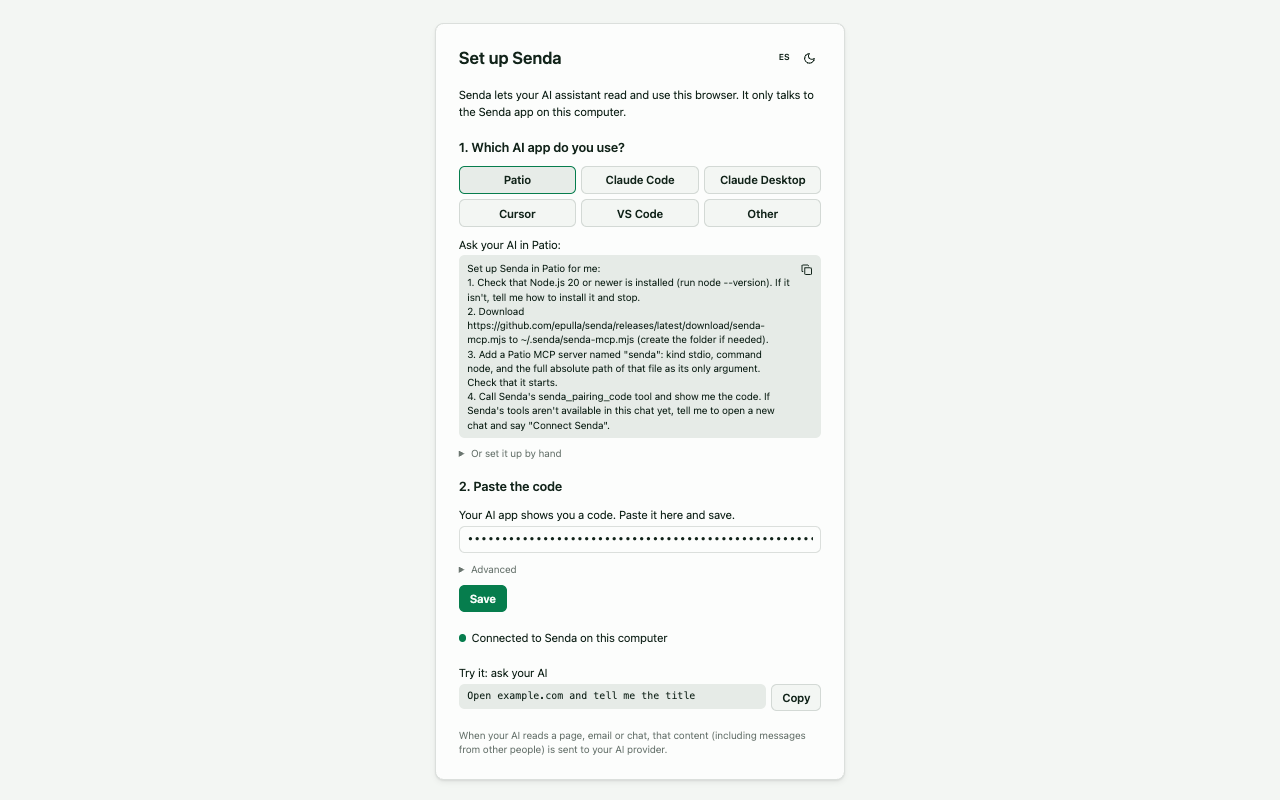
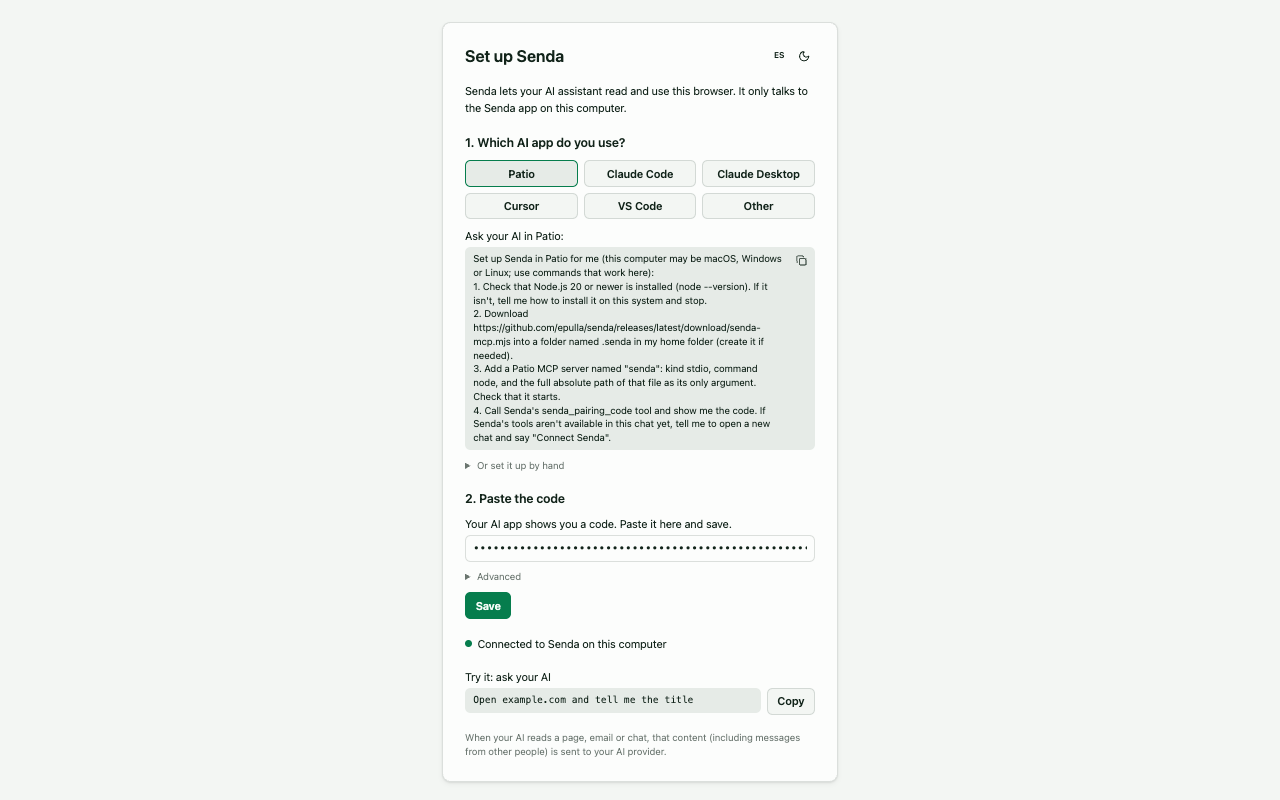
fix(extension): cross-platform Patio prompt and per-OS path examples (PROJ-277)

Changed region(s): [[0.3438, 0.0625, 0.6562, 0.875], [0.3438, 0.8438, 0.6562, 0.9688], [0.625, 0.0625, 0.6562, 0.0938]]

diff --git a/packages/extension/src/core/text/es.ts b/packages/extension/src/core/text/es.ts
@@ -47,9 +47,9 @@ export const es: Text = {
     downloadServer: 'Descarga senda-mcp.mjs',
     keepFile: ' y guárdalo en una carpeta que vayas a conservar.',
     patioAsk: 'Pídele a tu IA en Patio:',
-    patioPrompt: `Configura Senda en Patio por mí:
-1. Revisa que Node.js 20 o más reciente esté instalado (ejecuta node --version). Si no lo está, dime cómo instalarlo y detente.
-2. Descarga https://github.com/epulla/senda/releases/latest/download/senda-mcp.mjs en ~/.senda/senda-mcp.mjs (crea la carpeta si hace falta).
+    patioPrompt: `Configura Senda en Patio por mí (esta computadora puede ser macOS, Windows o Linux; usa comandos que funcionen aquí):
+1. Revisa que Node.js 20 o más reciente esté instalado (node --version). Si no lo está, dime cómo instalarlo en este sistema y detente.
+2. Descarga https://github.com/epulla/senda/releases/latest/download/senda-mcp.mjs en una carpeta llamada .senda dentro de mi carpeta personal (créala si hace falta).
 3. Agrega un servidor MCP de Patio llamado "senda": tipo stdio, comando node, y la ruta absoluta completa de ese archivo como su único argumento. Revisa que arranque.
 4. Llama a la herramienta senda_pairing_code de Senda y muéstrame el código. Si las herramientas de Senda aún no están disponibles en este chat, dime que abra un chat nuevo y diga "Conecta Senda".`,
     byHand: 'O configúralo a mano',
@@ -60,7 +60,8 @@ export const es: Text = {
     cursor: 'En los ajustes de Cursor, agrega un nuevo servidor MCP con:',
     vscode: 'En VS Code, abre la paleta de comandos, ejecuta "MCP: Add Server", elige Command (stdio), pega este comando y llama al servidor senda:',
     other: 'Agrega este servidor en los ajustes de tu app de IA:',
-    replacePath: 'Cambia /path/to/senda-mcp.mjs por la ubicación donde guardaste el archivo.',
+    replacePath: 'Cambia /path/to/senda-mcp.mjs por la ruta completa del archivo, por ejemplo:',
+    jsonWindows: 'En Windows, escribe cada \\ dos veces en esta configuración, por ejemplo C:\\\\Users\\\\you\\\\.senda\\\\senda-mcp.mjs.',
     sayConnect: 'En tu app de IA, escribe:',
     connectPrompt: 'Conecta Senda',
     pasteCode: '2. Pega el código',

diff --git a/packages/extension/src/core/text/en.ts b/packages/extension/src/core/text/en.ts
@@ -44,9 +44,9 @@ export const en = {
     downloadServer: 'Download senda-mcp.mjs',
     keepFile: ' and save it in a folder you will keep.',
     patioAsk: 'Ask your AI in Patio:',
-    patioPrompt: `Set up Senda in Patio for me:
-1. Check that Node.js 20 or newer is installed (run node --version). If it isn't, tell me how to install it and stop.
-2. Download https://github.com/epulla/senda/releases/latest/download/senda-mcp.mjs to ~/.senda/senda-mcp.mjs (create the folder if needed).
+    patioPrompt: `Set up Senda in Patio for me (this computer may be macOS, Windows or Linux; use commands that work here):
+1. Check that Node.js 20 or newer is installed (node --version). If it isn't, tell me how to install it on this system and stop.
+2. Download https://github.com/epulla/senda/releases/latest/download/senda-mcp.mjs into a folder named .senda in my home folder (create it if needed).
 3. Add a Patio MCP server named "senda": kind stdio, command node, and the full absolute path of that file as its only argument. Check that it starts.
 4. Call Senda's senda_pairing_code tool and show me the code. If Senda's tools aren't available in this chat yet, tell me to open a new chat and say "Connect Senda".`,
     byHand: 'Or set it up by hand',
@@ -57,7 +57,8 @@ export const en = {
     cursor: 'In Cursor settings, add a new MCP server with:',
     vscode: 'In VS Code, open the Command Palette, run "MCP: Add Server", choose Command (stdio), paste this command and name the server senda:',
     other: 'Add this server to your AI app settings:',
-    replacePath: 'Replace /path/to/senda-mcp.mjs with where you saved the file.',
+    replacePath: 'Replace /path/to/senda-mcp.mjs with the full path of the file, for example:',
+    jsonWindows: 'On Windows, write each \\ twice in this config, for example C:\\\\Users\\\\you\\\\.senda\\\\senda-mcp.mjs.',
     sayConnect: 'In your AI app, say:',
     connectPrompt: 'Connect Senda',
     pasteCode: '2. Paste the code',

diff --git a/packages/extension/entrypoints/onboarding/App.tsx b/packages/extension/entrypoints/onboarding/App.tsx
@@ -8,6 +8,11 @@ import { useItem } from '@/src/ui/useItem';
 
 const RELEASE = 'https://github.com/epulla/senda/releases/latest/download';
 const SERVER_PATH = '/path/to/senda-mcp.mjs';
+const PATH_EXAMPLES = [
+  ['macOS', '/Users/you/.senda/senda-mcp.mjs'],
+  ['Linux', '/home/you/.senda/senda-mcp.mjs'],
+  ['Windows', 'C:\\Users\\you\\.senda\\senda-mcp.mjs'],
+];
 const APPS = ['patio', 'claudeCode', 'claude', 'cursor', 'vscode', 'other'] as const;
 type App = (typeof APPS)[number];
 
@@ -129,7 +134,17 @@ export default function App() {
                 }
               />
             )}
-            <p className="mt-1 text-sm text-muted">{t.replacePath}</p>
+            <div className="mt-1 text-sm text-muted">
+              {t.replacePath}
+              <ul className="mt-1 list-disc pl-5">
+                {PATH_EXAMPLES.map(([os, path]) => (
+                  <li key={os}>
+                    {os}: <code>{path}</code>
+                  </li>
+                ))}
+              </ul>
+              {(app === 'cursor' || app === 'other') && <p className="mt-1">{t.jsonWindows}</p>}
+            </div>
           </li>
         </>
       )}

diff --git a/packages/extension/e2e/setup.spec.ts b/packages/extension/e2e/setup.spec.ts
@@ -21,11 +21,12 @@ test('setup page guides by AI app and pairs with the code the AI shows', async (
   }
 
   await page.locator('label', { hasText: 'Patio' }).click();
-  await expect(page.getByText('Set up Senda in Patio for me:')).toBeVisible();
+  await expect(page.getByText('Set up Senda in Patio for me (this computer may be macOS, Windows or Linux')).toBeVisible();
   const byHand = page.locator('details', { hasText: 'Or set it up by hand' });
   await expect(byHand.getByText('Command', { exact: true })).toBeHidden();
   await byHand.locator('summary').click();
   await expect(byHand.getByText('Command', { exact: true })).toBeVisible();
+  await expect(byHand.getByText('C:\\Users\\you\\.senda\\senda-mcp.mjs')).toBeVisible();
 
   await page.locator('label', { hasText: 'Claude Desktop' }).click();
   await expect(page.getByRole('link', { name: 'Download Senda for Claude' })).toHaveAttribute('href', /\/releases\/latest\/download\/senda\.mcpb$/);

diff --git a/README.md b/README.md
@@ -53,7 +53,7 @@ Needs a Chromium browser (Chrome, Brave or Edge).
 
 2. **Add Senda to your AI app.** Pick your AI app on the setup page to see its steps. In short:
 
-   **Patio:** the setup page has a prompt to paste into Patio; your AI there installs and adds Senda for you. By hand: needs [Node.js](https://nodejs.org) 20+ and [`senda-mcp.mjs`](https://github.com/epulla/senda/releases/latest/download/senda-mcp.mjs), saved somewhere you will keep (for example `~/.senda/senda-mcp.mjs`). Open Settings › MCP servers › Add server, choose Local command, set Command to `node` and Arguments to the absolute path of `senda-mcp.mjs`.
+   **Patio:** the setup page has a prompt to paste into Patio; your AI there installs and adds Senda for you. By hand: needs [Node.js](https://nodejs.org) 20+ and [`senda-mcp.mjs`](https://github.com/epulla/senda/releases/latest/download/senda-mcp.mjs), saved somewhere you will keep, for example a `.senda` folder in your home folder: `/Users/you/.senda/senda-mcp.mjs` (macOS), `/home/you/.senda/senda-mcp.mjs` (Linux) or `C:\Users\you\.senda\senda-mcp.mjs` (Windows). Open Settings › MCP servers › Add server, choose Local command, set Command to `node` and Arguments to the absolute path of `senda-mcp.mjs`.
 
    **Claude Code:** needs Node.js 20+ and `senda-mcp.mjs` as above. Then:
 
@@ -76,6 +76,8 @@ Needs a Chromium browser (Chrome, Brave or Edge).
    }
    ```
 
+   On Windows, write each `\` twice in JSON, for example `"C:\\Users\\you\\.senda\\senda-mcp.mjs"`.
+
    **VS Code (GitHub Copilot):** needs Node.js 20+ and `senda-mcp.mjs` as above. Run **MCP: Add Server** from the Command Palette, choose **Command (stdio)**, enter `node /path/to/senda-mcp.mjs` and name it `senda`.
 
 3. **Pair.** Ask your AI: "Connect Senda". It shows a code; paste it into the Senda setup page and click Save. (Or print the code yourself: `node /path/to/senda-mcp.mjs token`.)
@@ -97,7 +99,7 @@ pnpm build
 
 Then follow the steps above with `packages/extension/.output/chrome-mv3` as the extension folder and `packages/server/dist/index.js` as the server file. `pnpm bundle:mcpb` builds the Claude Desktop bundle at `packages/server/dist/senda.mcpb`.
 
-The server listens on `127.0.0.1:18765` (set `SENDA_PORT` to change it) and keeps its token in `~/.senda/token`.
+The server listens on `127.0.0.1:18765` (set `SENDA_PORT` to change it) and keeps its token in `.senda/token` in your home folder.
 
 ## Tools
 
@@ -138,7 +140,7 @@ pnpm test
 pnpm build
 ```
 
-`pnpm test` runs the unit tests. `pnpm e2e` builds the extension and server, then drives them end to end with Playwright: its own Chromium loads the extension, a temporary Senda server and the fixture site run on free ports, and the side panel opens as a normal page. Your real `~/.senda` token and running servers are untouched. First time only: `pnpm --filter @senda/extension exec playwright install chromium`.
+`pnpm test` runs the unit tests. `pnpm e2e` builds the extension and server, then drives them end to end with Playwright: its own Chromium loads the extension, a temporary Senda server and the fixture site run on free ports, and the side panel opens as a normal page. Your real `.senda` token and running servers are untouched. First time only: `pnpm --filter @senda/extension exec playwright install chromium`.
 
 `pnpm --filter @senda/extension dev` runs the extension with live reload. Release files: `pnpm build && pnpm --filter @senda/extension zip` makes `packages/extension/.output/senda-extension-<version>-chrome.zip`; `packages/server/dist/index.js` ships as `senda-mcp.mjs`. To regenerate the screenshots above: `SENDA_SHOTS=1 pnpm e2e readme-shots`.
 
